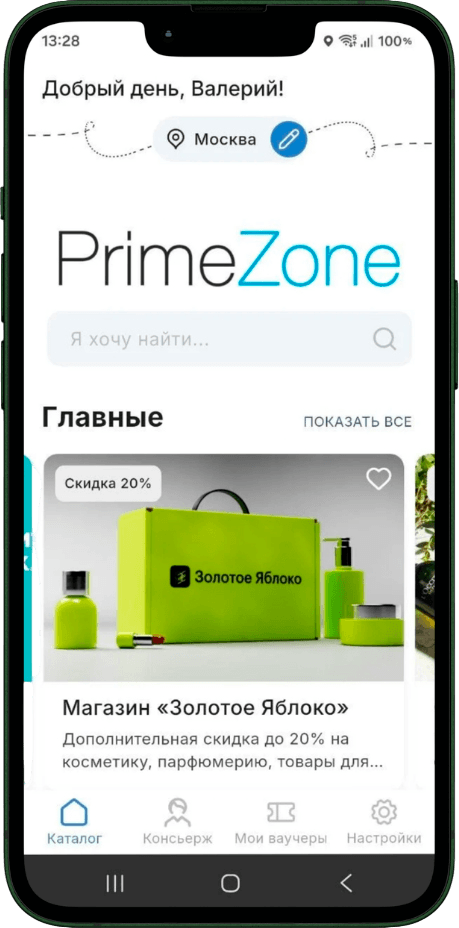
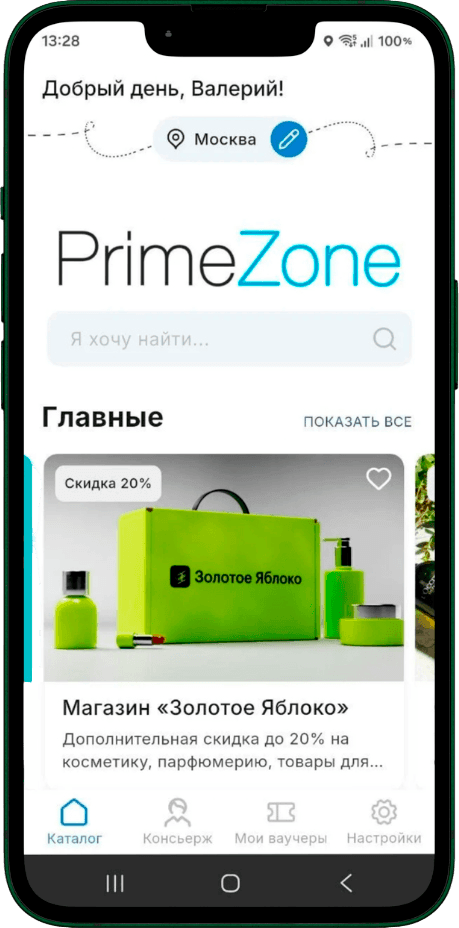
com9

diff --git a/css/style.css b/css/style.css
@@ -994,10 +994,11 @@ li {
 
     .app__btns {
         flex-direction: row;
+        justify-content: center;
     }
 
     .app__image {
-        top: -50%;
+        top: -100%;
     }
 
     .app__title,